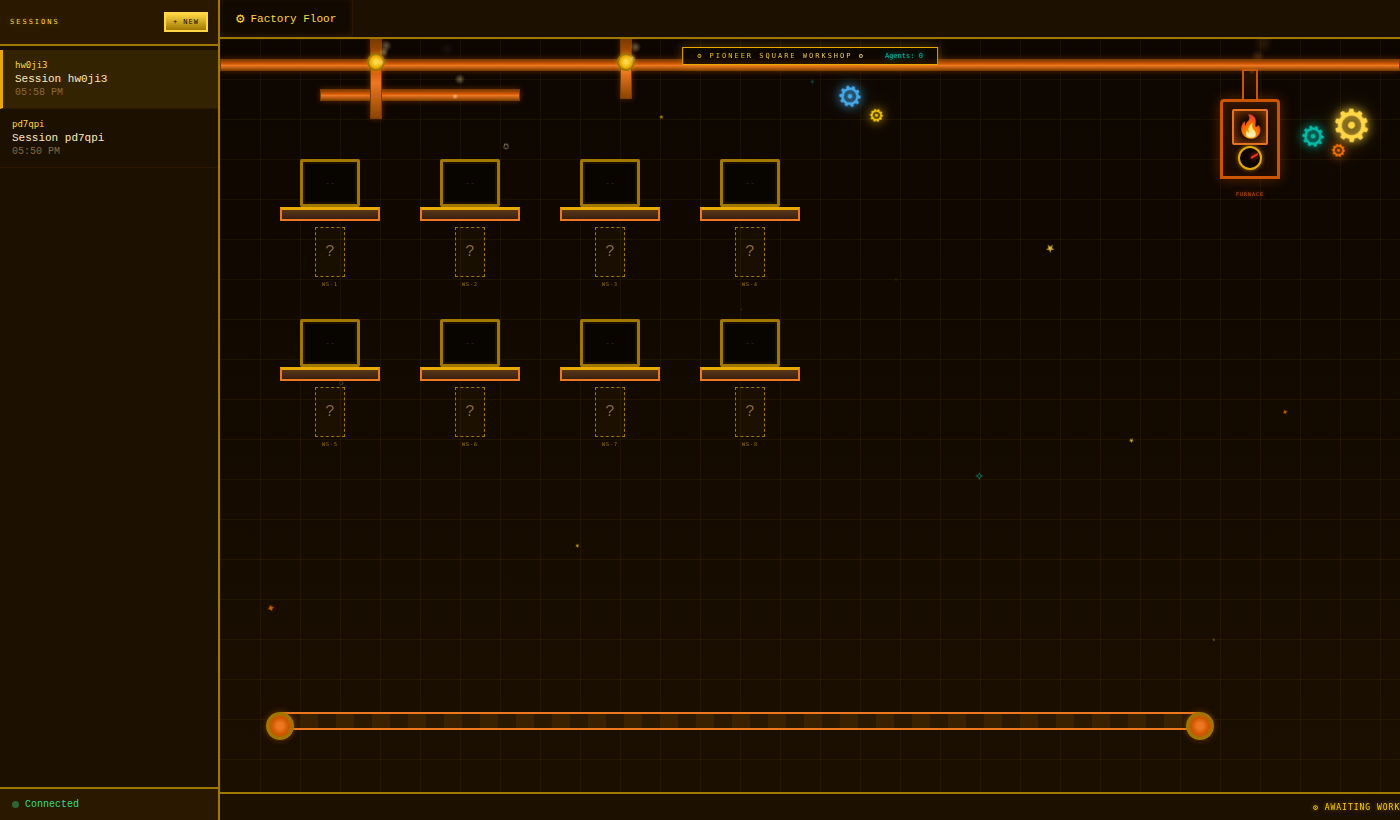
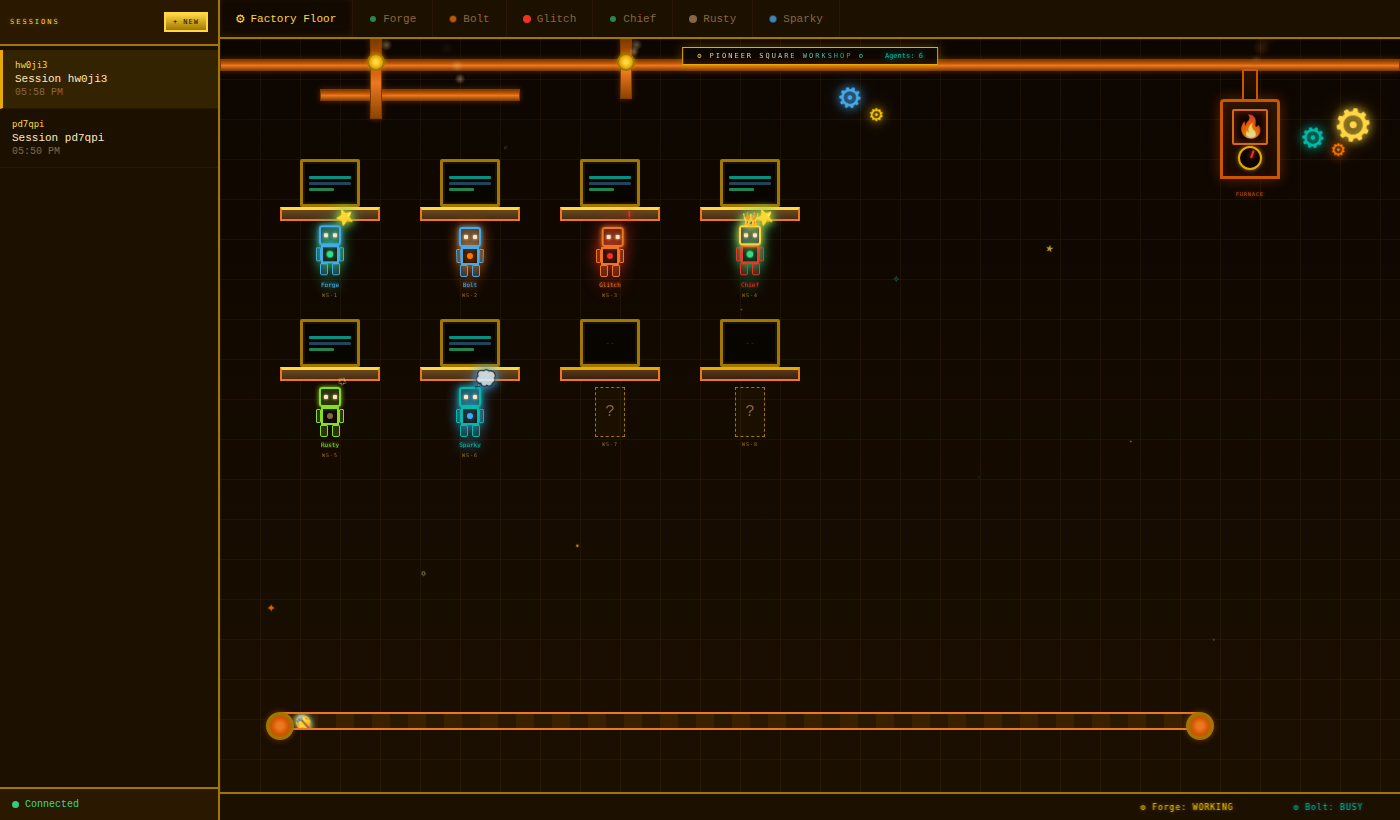
Fix agent hydration on page load; add screenshots with active agents
App.vue: seed the agents store from the REST snapshot returned by
joinSession() so robots appear immediately when navigating to an
existing session, not only when new WebSocket join events arrive.

Screenshots updated to show all six robots active on the floor with
their per-agent colors and live states (working, thinking, busy, idle,
error) and the foreman with crown.

https://claude.ai/code/session_01RiE8czzhddtwbuoxFsggkS

diff --git a/frontend/src/App.vue b/frontend/src/App.vue
@@ -26,7 +26,17 @@ async function initSession(sessionId) {
     router.replace(`/${session.id}`)
     return
   }
-  await sessionStore.joinSession(sessionId)
+  const session = await sessionStore.joinSession(sessionId)
+  // Hydrate agents store from REST snapshot so existing agents appear on load
+  if (session?.agents) {
+    session.agents.forEach(a => agentsStore.registerAgent({
+      agentId: a.id,
+      agentName: a.name,
+      agentType: a.type,
+      state: a.state,
+      joinedAt: a.joined_at,
+    }))
+  }
   sessionStore.connectWebSocket(sessionId, (data) => {
     agentsStore.handleWebSocketMessage(data)
   })
